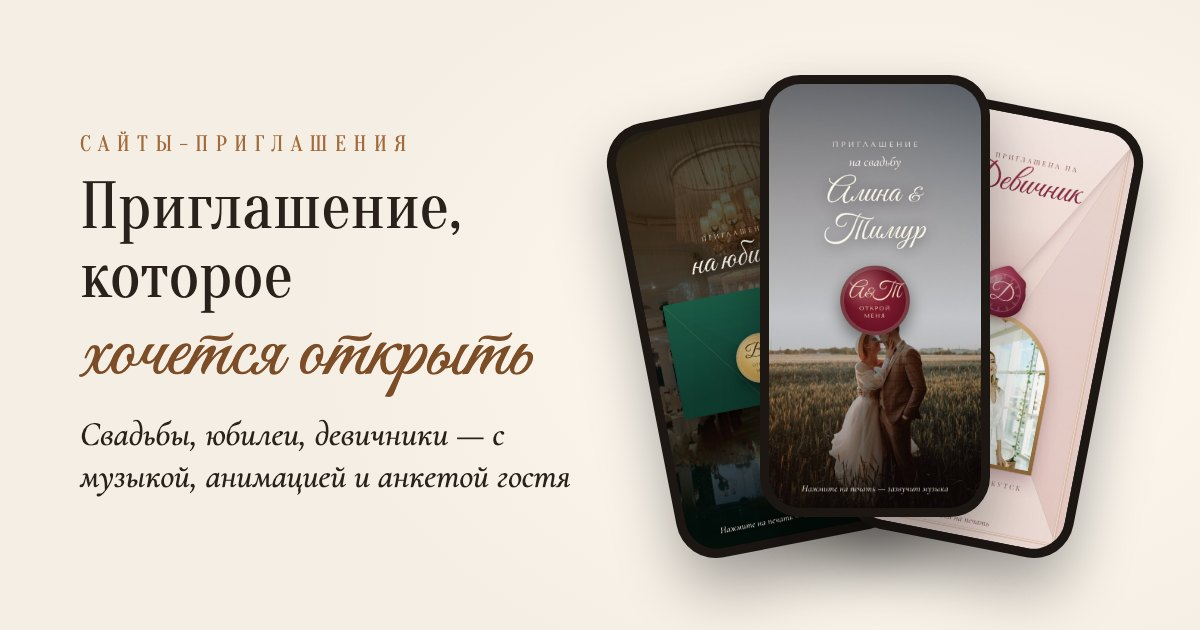
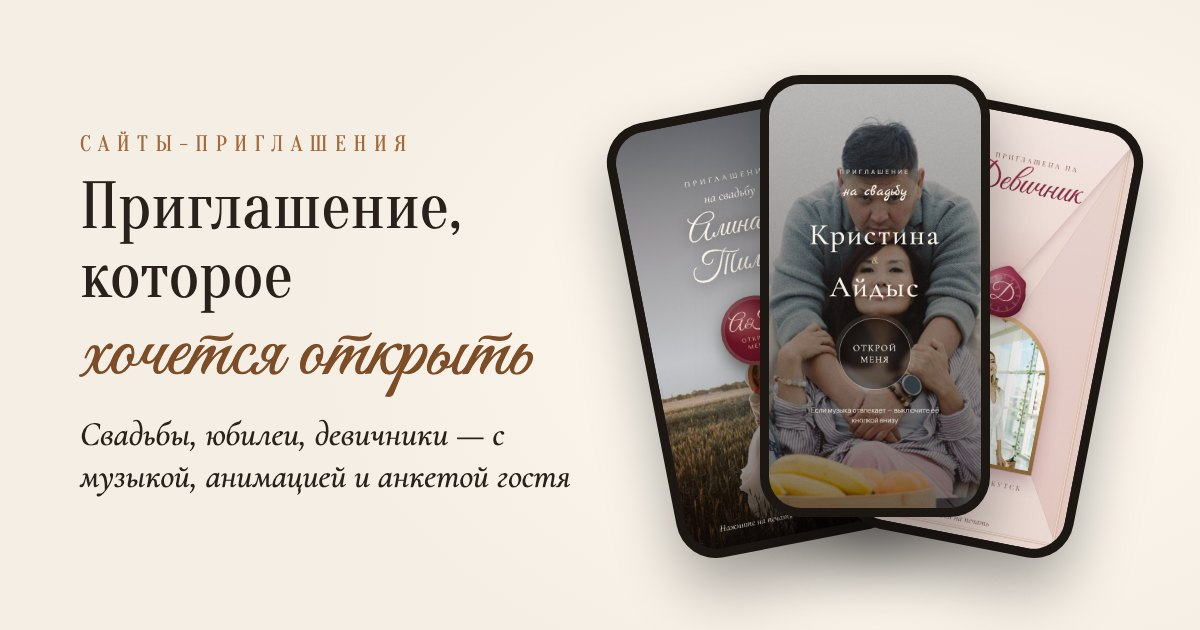
Кристина и Айдыс — в центре обложки и первой работой

Changed region(s): [[0.4933, 0.1206, 0.8325, 0.8444]]

diff --git a/index.html b/index.html
@@ -25,7 +25,7 @@
       href="https://fonts.googleapis.com/css2?family=Cormorant+Garamond:ital,wght@0,500;0,600;1,500&family=Great+Vibes&family=Oranienbaum&display=swap"
       rel="stylesheet"
     />
-    <link rel="stylesheet" href="styles.css?v=3" />
+    <link rel="stylesheet" href="styles.css?v=4" />
   </head>
   <body>
     <header class="top">
@@ -52,8 +52,8 @@
         <a class="btn" href="#works"><span>Смотреть работы</span></a>
 
         <div class="fan" aria-hidden="true">
-          <figure class="phone fan-l"><img src="covers/dveri.jpg" alt="" /></figure>
-          <figure class="phone fan-c"><img src="covers/zanaves.jpg" alt="" /></figure>
+          <figure class="phone fan-l"><img src="covers/zanaves.jpg" alt="" /></figure>
+          <figure class="phone fan-c"><img src="covers/svadba.jpg" alt="" /></figure>
           <figure class="phone fan-r"><img src="covers/devichnik.jpg" alt="" /></figure>
         </div>
       </section>
@@ -66,7 +66,18 @@
           <p class="sub">Нажмите на любое: оно откроется целиком, с&nbsp;музыкой и&nbsp;анимацией.</p>
         </div>
 
-        <article class="work reveal">
+        <article class="work work-main reveal">
+          <a class="phone" href="https://aytalykt-lab.github.io/kristina-aidys/" target="_blank" rel="noopener">
+            <img src="covers/svadba.jpg" alt="Обложка приглашения Кристины и Айдыса" loading="lazy" />
+          </a>
+          <div class="work-copy">
+            <p class="work-kind">Свадьба · настоящая работа для клиентов</p>
+            <h3>Кристина и&nbsp;Айдыс</h3>
+            <p>Тёплая история в&nbsp;фотографиях пары на&nbsp;весь экран: программа по&nbsp;часам, палитра дресс-кода, маршрут в&nbsp;2ГИС.</p>
+            <a class="link" href="https://aytalykt-lab.github.io/kristina-aidys/" target="_blank" rel="noopener">Открыть приглашение</a>
+          </div>
+        </article>
+        <article class="work work-flip reveal">
           <a class="phone" href="raboty/zanaves/" target="_blank" rel="noopener">
             <img src="covers/zanaves.jpg" alt="Обложка приглашения «Занавес»" loading="lazy" />
           </a>
@@ -77,8 +88,7 @@
             <a class="link" href="raboty/zanaves/" target="_blank" rel="noopener">Открыть приглашение</a>
           </div>
         </article>
-
-        <article class="work work-flip reveal">
+        <article class="work reveal">
           <a class="phone" href="raboty/dveri/" target="_blank" rel="noopener">
             <img src="covers/dveri.jpg" alt="Обложка приглашения «Изумрудный вечер»" loading="lazy" />
           </a>
@@ -89,8 +99,7 @@
             <a class="link" href="raboty/dveri/" target="_blank" rel="noopener">Открыть приглашение</a>
           </div>
         </article>
-
-        <article class="work reveal">
+        <article class="work work-flip reveal">
           <a class="phone" href="raboty/devichnik/" target="_blank" rel="noopener">
             <img src="covers/devichnik.jpg" alt="Обложка приглашения «Игристое»" loading="lazy" />
           </a>
@@ -101,19 +110,6 @@
             <a class="link" href="raboty/devichnik/" target="_blank" rel="noopener">Открыть приглашение</a>
           </div>
         </article>
-
-        <article class="work work-flip reveal">
-          <a class="phone" href="https://aytalykt-lab.github.io/kristina-aidys/" target="_blank" rel="noopener">
-            <img src="covers/svadba.jpg" alt="Обложка приглашения Кристины и Айдыса" loading="lazy" />
-          </a>
-          <div class="work-copy">
-            <p class="work-kind">Свадьба · работа для клиентов</p>
-            <h3>Кристина и&nbsp;Айдыс</h3>
-            <p>Тёплая история в&nbsp;фотографиях пары на&nbsp;весь экран: программа по&nbsp;часам, палитра дресс-кода, маршрут в&nbsp;2ГИС.</p>
-            <a class="link" href="https://aytalykt-lab.github.io/kristina-aidys/" target="_blank" rel="noopener">Открыть приглашение</a>
-          </div>
-        </article>
-
         <article class="work reveal">
           <a class="phone" href="raboty/yubilej/" target="_blank" rel="noopener">
             <img src="covers/yubilej.jpg" alt="Обложка приглашения на юбилей" loading="lazy" />

diff --git a/styles.css b/styles.css
@@ -496,6 +496,32 @@ h2 {
   transform: none;
 }
 
+/* Главная работа — чуть крупнее и с подписью-лентой */
+.work-main .phone {
+  width: min(74vw, 300px);
+  position: relative;
+}
+
+.work-main .work-copy::before {
+  content: "Главная работа";
+  display: inline-block;
+  margin-bottom: 12px;
+  padding: 5px 14px 4px;
+  font-family: var(--display);
+  font-size: 12px;
+  letter-spacing: 0.22em;
+  text-transform: uppercase;
+  color: #fff8ee;
+  background: var(--accent-deep);
+  border-radius: 999px;
+}
+
+@media (min-width: 860px) {
+  .work-main .phone {
+    width: 320px;
+  }
+}
+
 /* ---------- Что внутри ---------- */
 
 .inside {
